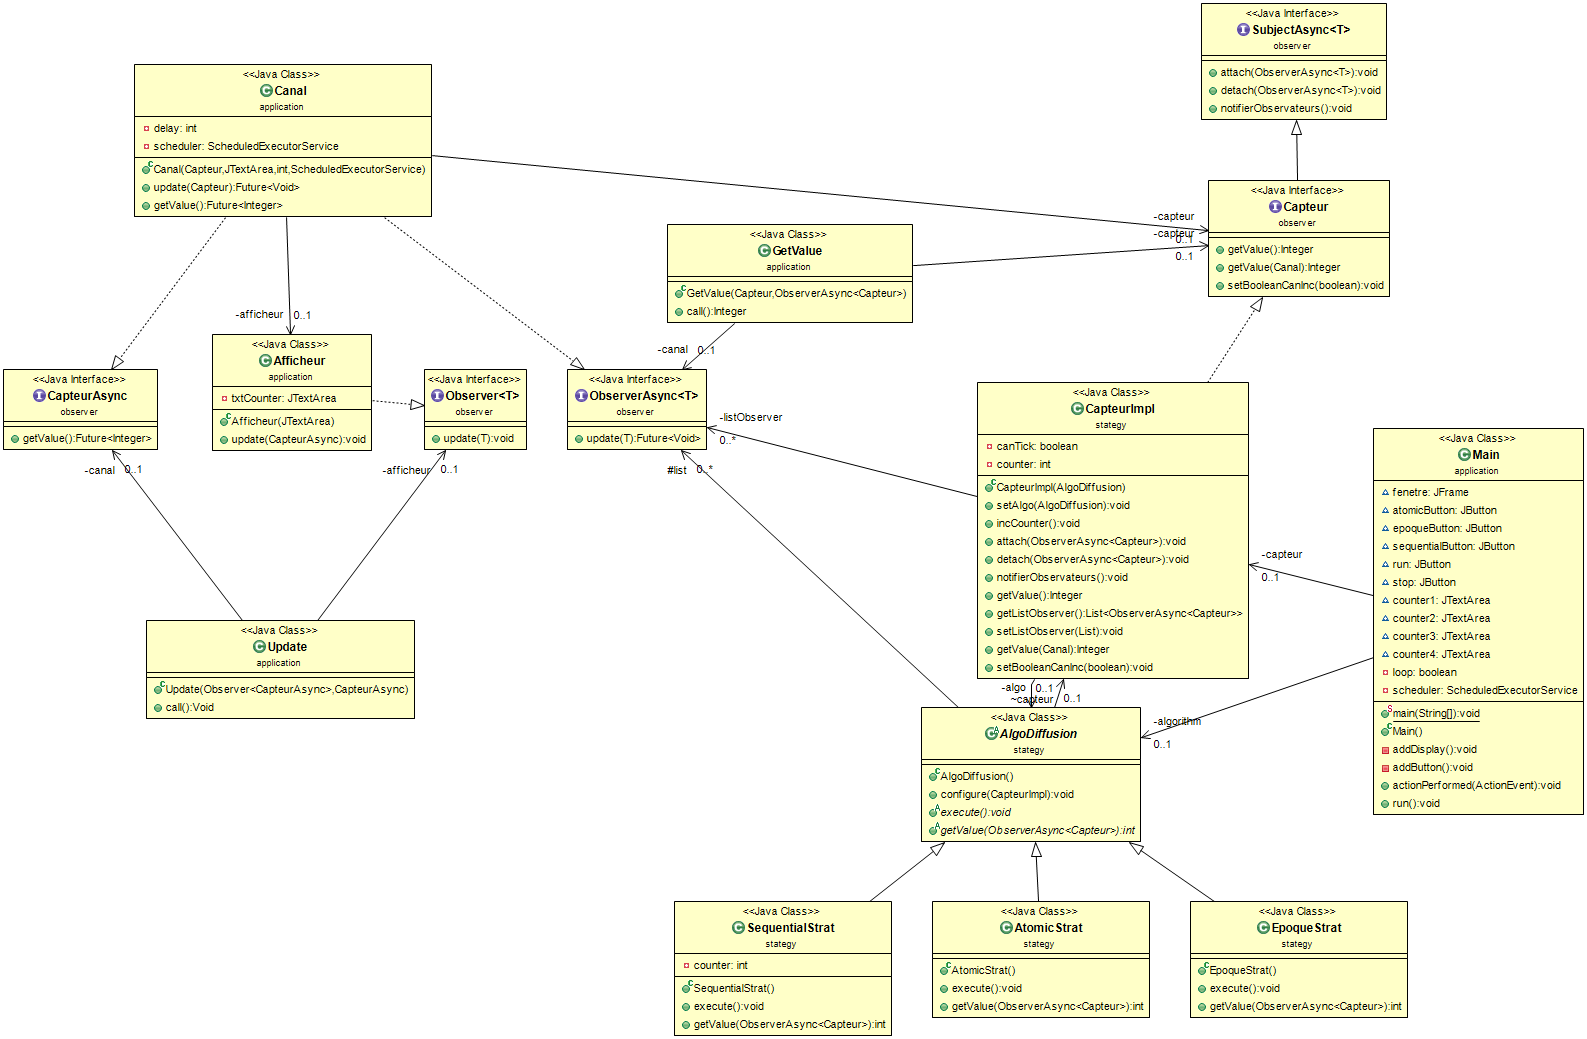
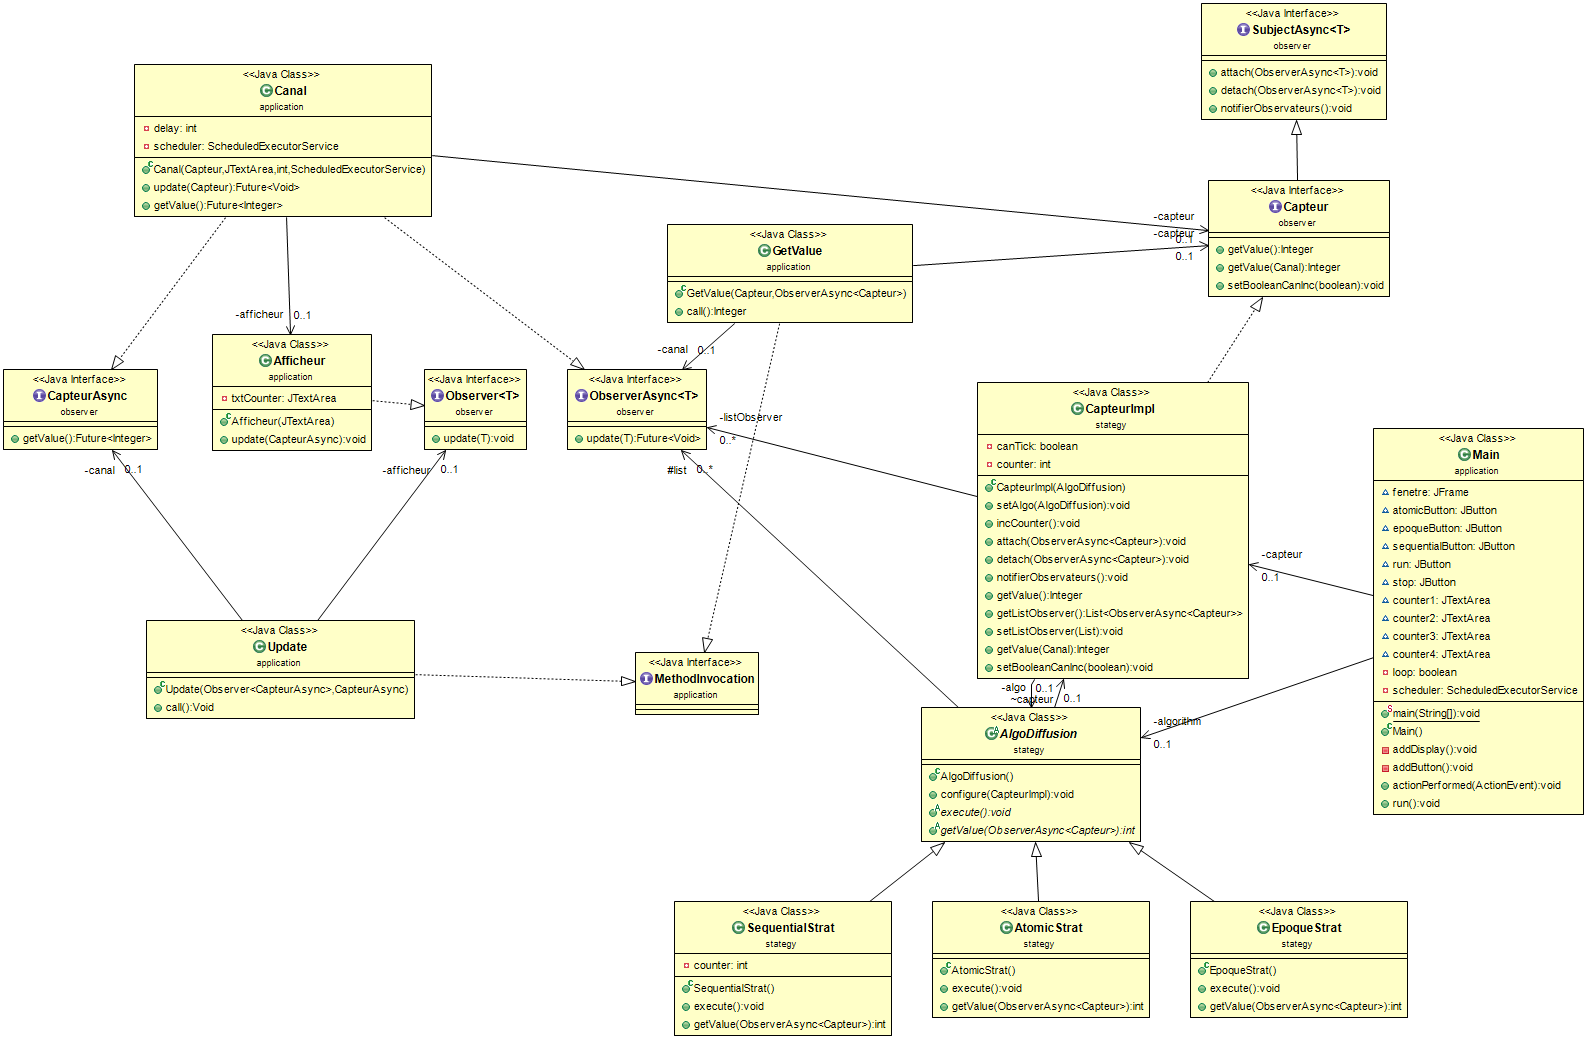
Add methodInvocation

Changed region(s): [[0.3705, 0.616, 0.494, 0.7084]]

diff --git a/src/application/GetValue.java b/src/application/GetValue.java
@@ -1,10 +1,8 @@
 package application;
 
-import java.util.concurrent.Callable;
 
 import observer.Capteur;
-import observer.CapteurAsync;
-import observer.Observer;
+
 import observer.ObserverAsync;
 
 /**
@@ -12,7 +10,7 @@ import observer.ObserverAsync;
  * @author Yoann
  *
  */
-public class GetValue implements Callable<Integer>{
+public class GetValue implements MethodInvocation{
 
 	/** The capteur. */
     private Capteur capteur;

diff --git a/src/application/Update.java b/src/application/Update.java
@@ -1,7 +1,5 @@
 package application;
 
-import java.util.concurrent.Callable;
-
 import observer.CapteurAsync;
 import observer.Observer;
 
@@ -10,7 +8,7 @@ import observer.Observer;
  * The Class Update.
  * Update each afficheur in asynchrone way
  */
-public class Update implements Callable<Void> {
+public class Update implements MethodInvocation {
 
     /** The afficheur. */
     private Observer<CapteurAsync> afficheur;

diff --git a/src/application/MethodInvocation.java b/src/application/MethodInvocation.java
@@ -1,0 +1,7 @@
+package application;
+
+import java.util.concurrent.Callable;
+
+public interface MethodInvocation extends Callable{
+
+}
